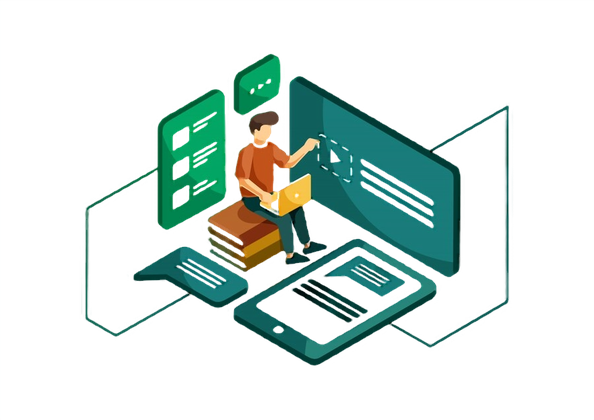
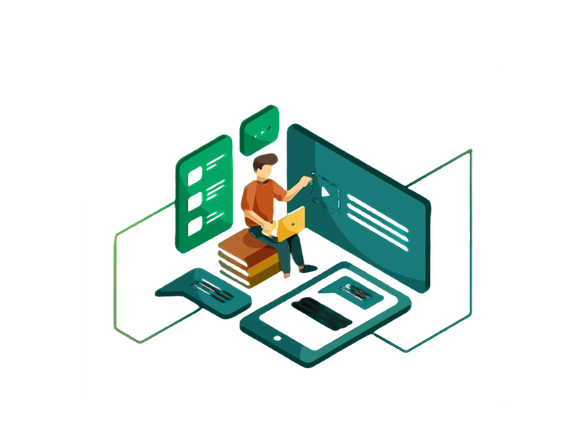
en desarrollo

Changed region(s): [[0.1187, 0.1238, 0.8604, 0.8667], [0.1483, 0.4643, 0.178, 0.4952]]

diff --git a/css/estilos.css b/css/estilos.css
@@ -63,7 +63,7 @@ h1 {
 header img {
     max-width: 100%;
     height: auto;
-    margin-left: 38%;
+    margin-left: 33%;
 
 }
 
